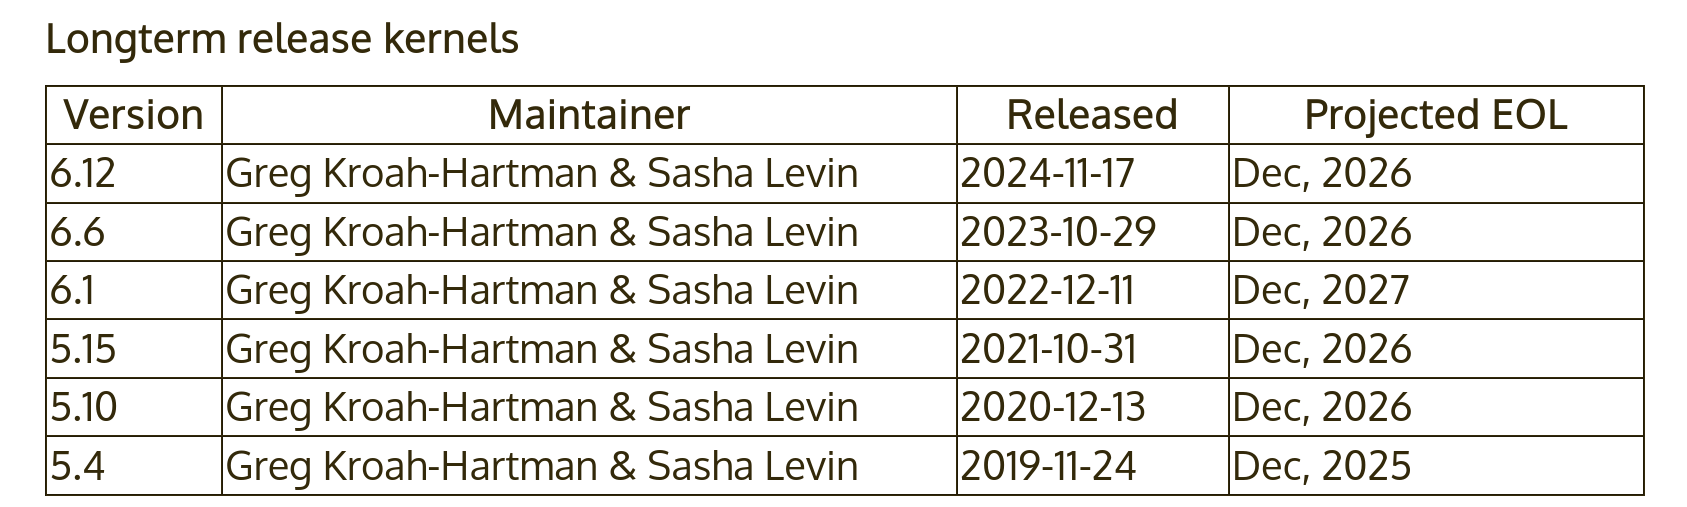
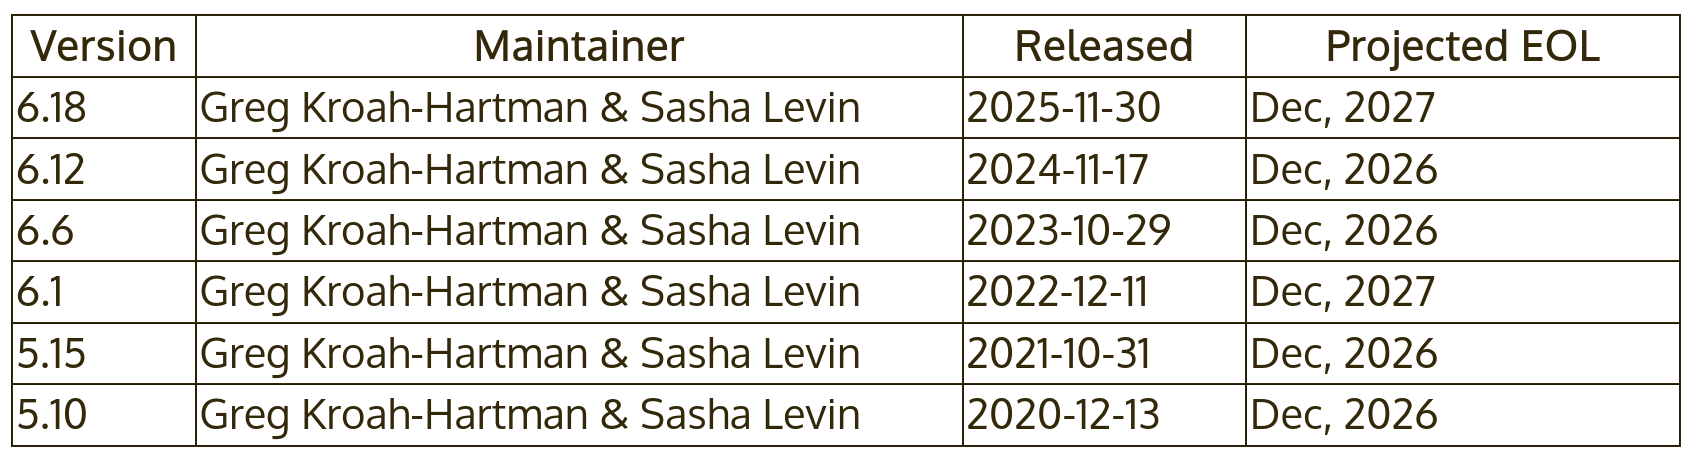
sysdev/kernel: List new kernels (including CIP) and update the stable table

Changed region(s): [[0.0, 0.0304, 1.0, 1.0]]

diff --git a/slides/kernel-intro-sources/kernel-intro-sources.tex b/slides/kernel-intro-sources/kernel-intro-sources.tex
@@ -28,7 +28,8 @@
 	\item Versions \code{3.0} (Jul. 2011) to \code{3.19} (Feb. 2015)
 	\item Versions \code{4.0} (Apr. 2015) to \code{4.20} (Dec. 2018)
 	\item Versions \code{5.0} (Mar. 2019) to \code{5.19} (July 2022)
-	\item Version \code{6.0} was released in Oct. 2022.
+	\item Versions \code{6.0} (Oct. 2022) to \code{6.19} (Feb. 2026)
+	\item Version \code{7.0} will be released in March/April 2026.
   \end{itemize}
   \item Features are added to the kernel in a progressive way. Since
         2003, kernel developers have managed to do so without having
@@ -94,7 +95,7 @@
   \includegraphics[width=\textwidth]{common/long-term-support-kernels.png}\\
   \column{0.4\textwidth}
   \scriptsize
-   Captured on \url{https://kernel.org} in Nov. 2023, following the
+   Captured on \url{https://kernel.org} in Feb. 2026, following the
    \href{https://www.kernel.org/category/releases.html}{\em Releases} link.
   \end{columns}
   \item Example at Google: starting from {\em Android O (2017)}, all new Android devices
@@ -116,7 +117,7 @@
     Some vulnerabilities are fixed in stable without ever getting a CVE.
   \item The {\em Civil Infrastructure Platform} project is an industry /
     Linux Foundation effort to support much longer (at least 10 years)
-    selected LTS versions (currently 4.4, 4.19, 5.10 and 6.1) on selected architectures.
+    selected LTS versions (currently 4.4, 4.19, 5.10, 6.1 and 6.12) on selected architectures.
     See \url{https://wiki.linuxfoundation.org/civilinfrastructureplatform/start}.
   \end{itemize}
 \end{frame}

diff --git a/slides/sysdev-linux-intro-versioning/sysdev-linux-intro-versioning.tex b/slides/sysdev-linux-intro-versioning/sysdev-linux-intro-versioning.tex
@@ -13,13 +13,14 @@
 	\item Versions \code{3.0} (Jul. 2011) to \code{3.19} (Feb. 2015)
 	\item Versions \code{4.0} (Apr. 2015) to \code{4.20} (Dec. 2018)
 	\item Versions \code{5.0} (Mar. 2019) to \code{5.19} (July 2022)
-	\item Version \code{6.0} was released in Oct. 2022.
+	\item Versions \code{6.0} (Oct. 2022) to \code{6.19} (Feb. 2026)
+	\item Version \code{7.0} will be released in March/April 2026.
   \end{itemize}
   \item Features are added to the kernel in a progressive way. Since
         2003, kernel developers have managed to do so without having
         to introduce a massively incompatible development branch.
   \item For each release, there are bugfix and security updates called
-    stable releases: 6.0.1, 6.0.2, etc.
+    stable releases: 7.0.1, 7.0.2, etc.
   \end{itemize}
 \end{frame}
 
@@ -44,7 +45,7 @@
   \includegraphics[width=\textwidth]{common/long-term-support-kernels.png}\\
   \column{0.4\textwidth}
   \scriptsize
-   Captured on \url{https://kernel.org} in Nov. 2023, following the
+   Captured on \url{https://kernel.org} in Feb. 2026, following the
    \href{https://www.kernel.org/category/releases.html}{\em Releases} link.
   \end{columns}
   \item Example at Google: starting from {\em Android O (2017)}, all new Android devices
